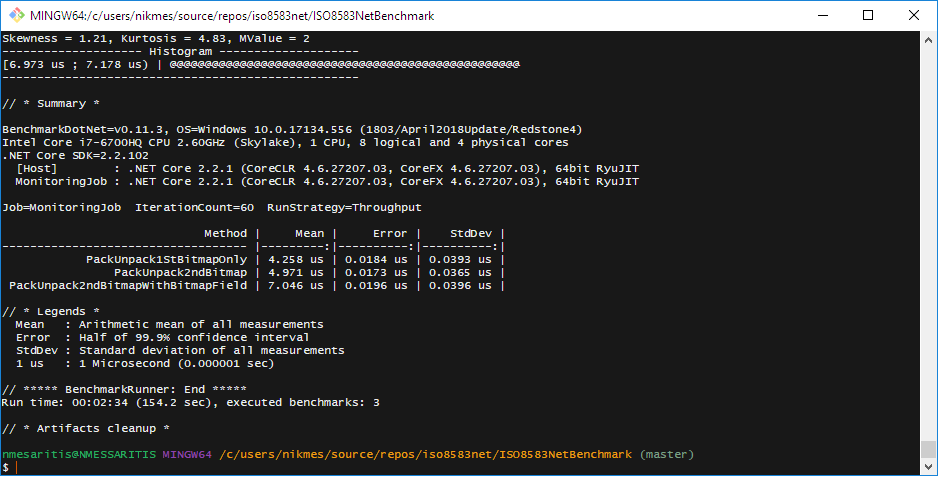
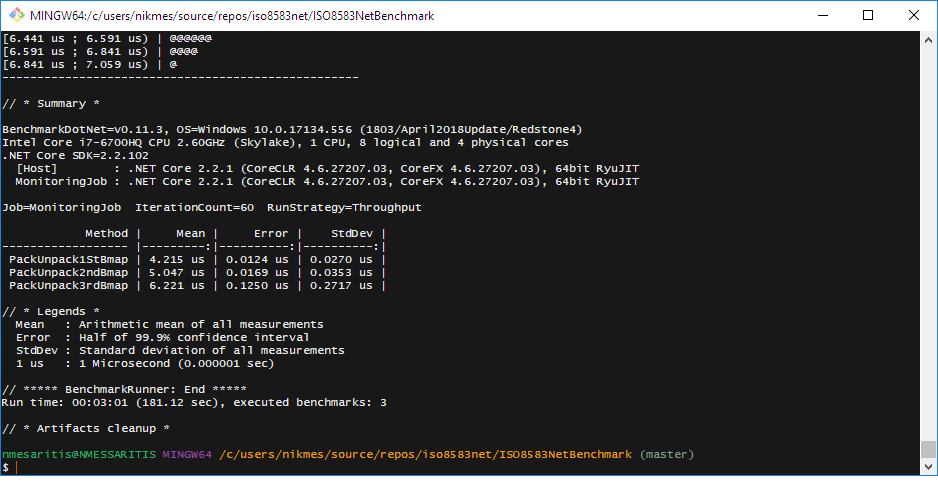
docfx update

diff --git a/docs/site/quickstart/quickstart.html b/docs/site/quickstart/quickstart.html
@@ -92,6 +92,7 @@ $ dotnet run
 </code></pre>
 <p>You should see something like below</p>
 <p><img src="../images/benchmark.png" alt="image"></p>
+<p><img src="../images/BenchmarkDotNetRGraph.png" alt="image"></p>
 </article>
           </div>
           